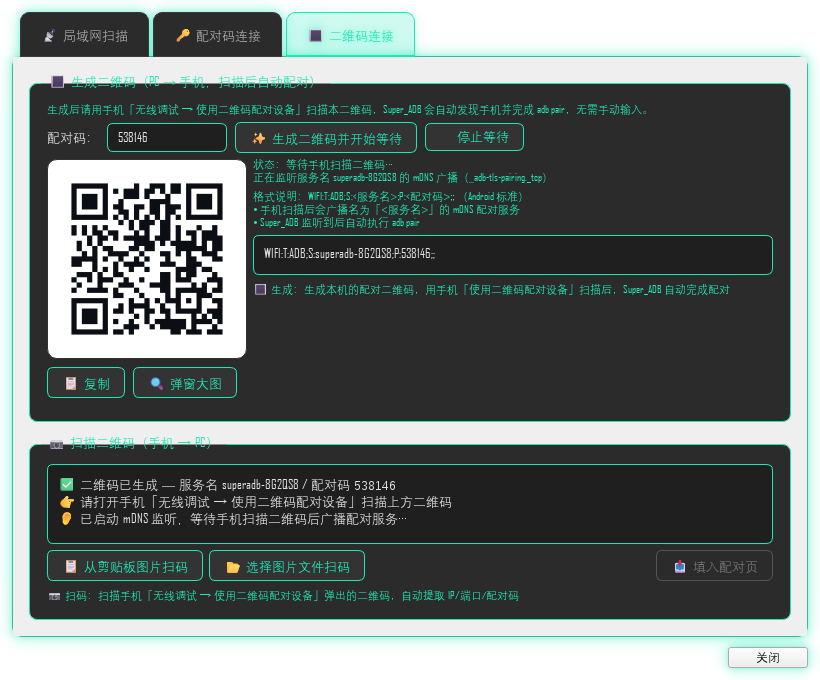
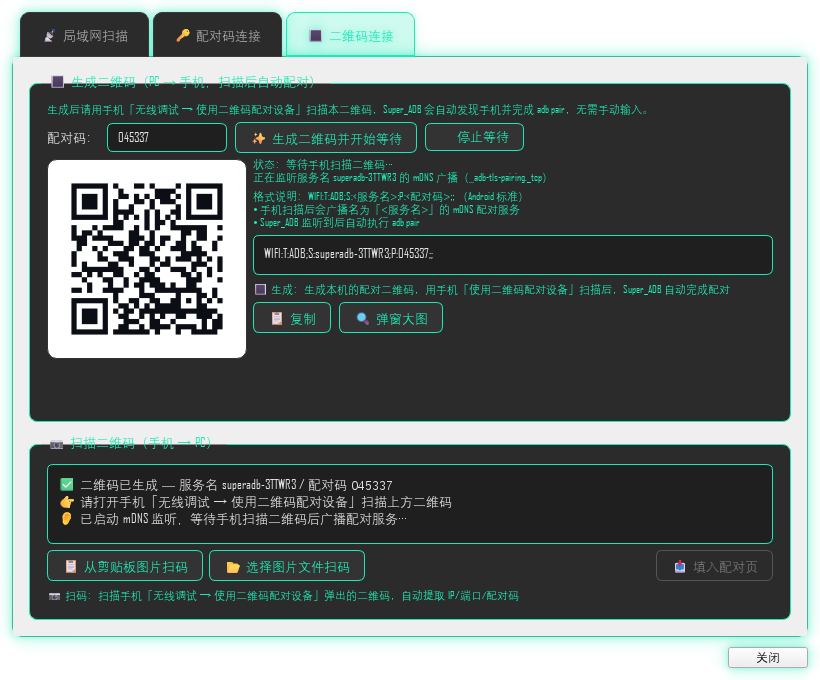
ui(qr): 复制/弹窗按钮放到生成说明下方右侧

diff --git a/Super_ADB_Main/dialogs/qr_connect_page.py b/Super_ADB_Main/dialogs/qr_connect_page.py
@@ -244,22 +244,6 @@ class QrConnectPage(QWidget):
         self.qr_preview_label.setText("二维码预览区\n（点击上方按钮生成）")
         left_col.addWidget(self.qr_preview_label)
 
-        gen_btn_row = QHBoxLayout()
-        gen_btn_row.setSpacing(8)
-        self.btn_copy_payload = QPushButton("📋 复制")
-        self.btn_copy_payload.setToolTip("复制二维码原始文本到剪贴板")
-        self.btn_copy_payload.setEnabled(False)
-        self.btn_copy_payload.clicked.connect(self._copy_payload)
-        gen_btn_row.addWidget(self.btn_copy_payload)
-
-        self.btn_popup_qr = QPushButton("🔍 弹窗大图")
-        self.btn_popup_qr.setToolTip("弹窗展示大尺寸二维码，方便手机相机扫描")
-        self.btn_popup_qr.setEnabled(False)
-        self.btn_popup_qr.clicked.connect(self._popup_qr)
-        gen_btn_row.addWidget(self.btn_popup_qr)
-        gen_btn_row.addStretch()
-        left_col.addLayout(gen_btn_row)
-
         left_col.addStretch()
         qr_row.addLayout(left_col)
 
@@ -292,6 +276,22 @@ class QrConnectPage(QWidget):
         gen_tip.setWordWrap(True)
         gen_tip.setStyleSheet(f"color:{ACCENT}; font-size:11px;")
         info_col.addWidget(gen_tip)
+
+        gen_btn_row = QHBoxLayout()
+        gen_btn_row.setSpacing(8)
+        self.btn_copy_payload = QPushButton("📋 复制")
+        self.btn_copy_payload.setToolTip("复制二维码原始文本到剪贴板")
+        self.btn_copy_payload.setEnabled(False)
+        self.btn_copy_payload.clicked.connect(self._copy_payload)
+        gen_btn_row.addWidget(self.btn_copy_payload)
+
+        self.btn_popup_qr = QPushButton("🔍 弹窗大图")
+        self.btn_popup_qr.setToolTip("弹窗展示大尺寸二维码，方便手机相机扫描")
+        self.btn_popup_qr.setEnabled(False)
+        self.btn_popup_qr.clicked.connect(self._popup_qr)
+        gen_btn_row.addWidget(self.btn_popup_qr)
+        gen_btn_row.addStretch()
+        info_col.addLayout(gen_btn_row)
 
         info_col.addStretch()
 
